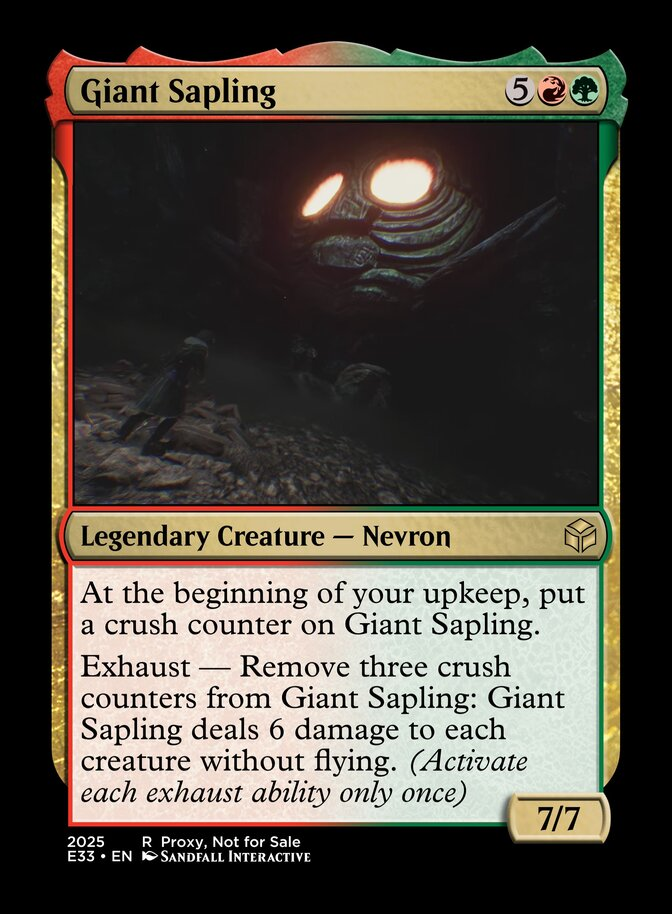
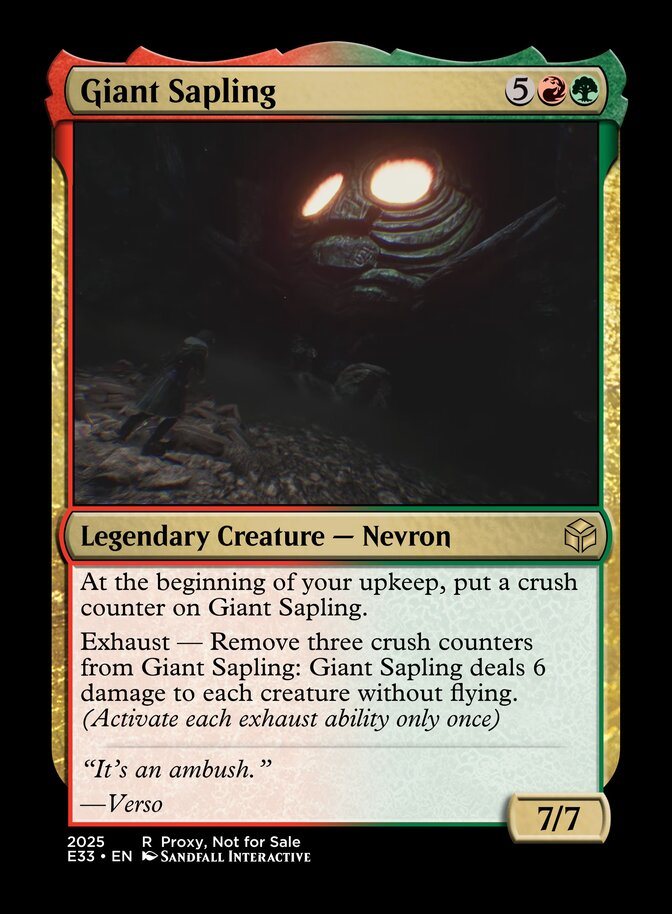
Giant Sapling: Add flavor text

Changed region(s): [[0.125, 0.6127, 0.875, 0.8884]]

diff --git a/design/MULTICOLOR.md b/design/MULTICOLOR.md
@@ -1,6 +1,6 @@
 # Cards
 
-> Last generated: 6/7/2026 1:35:50 pm
+> Last generated: 6/7/2026 1:41:08 pm
 
 ## Aberration
 
@@ -1230,6 +1230,9 @@ With one small gesture, the Nevron soon dissipated into a bloom of gold petals.
 Legendary Creature - Nevron
 At the beginning of your upkeep, put a crush counter on Giant Sapling.
 Exhaust — Remove three crush counters from Giant Sapling: Giant Sapling deals 6 damage to each creature without flying. (Activate each exhaust ability only once)
+---
+“It's an ambush.”
+—Verso
 
 7/7
 ```
